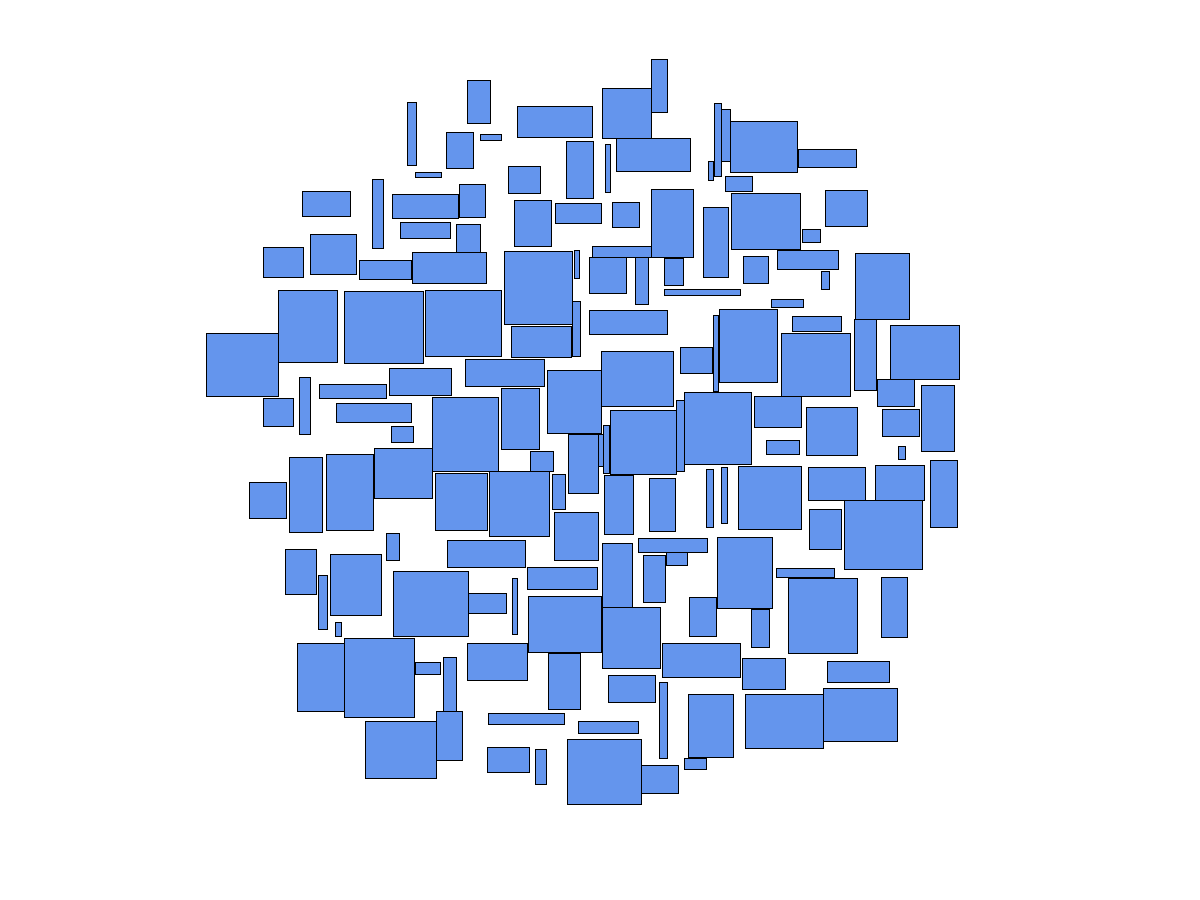
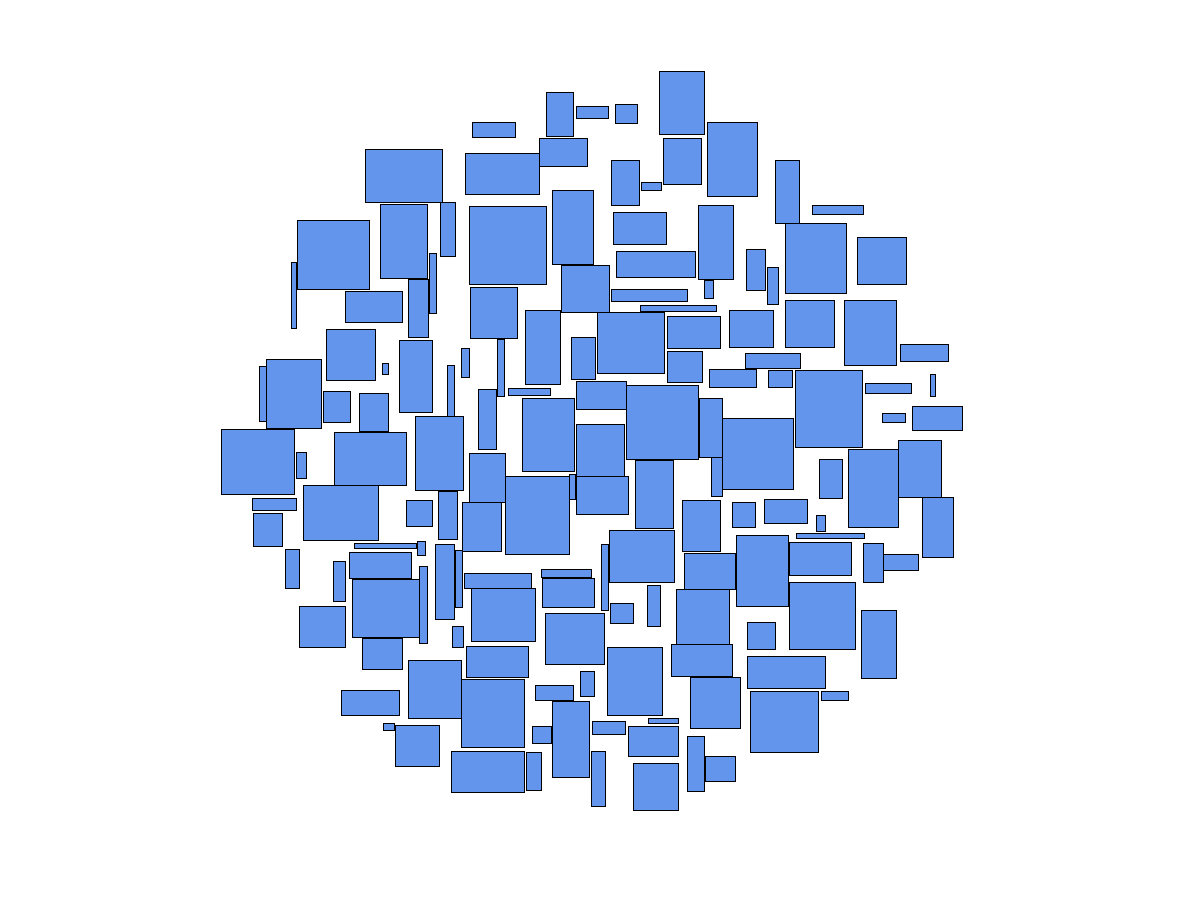
3 part of homework + fixes

Changed region(s): [[0.1542, 0.0622, 0.8017, 0.9022]]

diff --git a/cs/TagsCloudVisualization/Tests/CircularCloudLayouter_should.cs b/cs/TagsCloudVisualization/Tests/CircularCloudLayouter_should.cs
@@ -11,20 +11,42 @@ namespace TagsCloudVisualization.Tests
         private CircularCloudLayouter layouter = null!;
         private Size[] rectangleSizes = Array.Empty<Size>();
         private Point center;
+        private int maxDistanceToCenter;
+        private string imagesDirectory = "";
 
         [SetUp]
         public void SetUp()
         {
-            center = new Point(0, 0);
+            center = new Point(650, 450);
             layouter = new CircularCloudLayouter(center);
             rectangleSizes = new[]
             {
-                new Size(10, 10),
-                new Size(20, 20),
-                new Size(30, 10),
-                new Size(15, 25),
-                new Size(10, 10)
+                new Size(70, 100),
+                new Size(60, 60),
+                new Size(90, 30),
+                new Size(75, 115),
+                new Size(100, 100)
             };
+            maxDistanceToCenter = 120;
+            var projectDirectory = Directory.GetParent(Environment.CurrentDirectory)?.Parent?.Parent?.FullName
+                    ?? throw new InvalidOperationException("Не удалось определить директорию проекта.");
+            imagesDirectory = Path.Combine(projectDirectory, "Images");
+            if (!Directory.Exists(imagesDirectory))
+            {
+                Directory.CreateDirectory(imagesDirectory);
+            }
+        }
+
+        [TearDown]
+        public void TearDown()
+        {
+            if (TestContext.CurrentContext.Result.Outcome.Status == NUnit.Framework.Interfaces.TestStatus.Failed)
+            {
+                var testName = TestContext.CurrentContext.Test.Name;
+                var filePath = Path.Combine(imagesDirectory, $"{testName}_failed.png");
+                layouter.SaveVisualization(filePath);
+                Console.WriteLine($"Tag cloud visualization saved to file {filePath}");
+            }
         }
 
         [Test]
@@ -67,7 +89,7 @@ namespace TagsCloudVisualization.Tests
         public void PutNextRectangle_ShouldPlaceRectangleInCenter_WhenFirstRectangle()
         {
             var rectangleSize = new Size(10, 10);
-            var expectedLocation = new Point(-rectangleSize.Width / 2, -rectangleSize.Height / 2);
+            var expectedLocation = new Point(center.X - rectangleSize.Width / 2, center.Y - rectangleSize.Height / 2);
             var rectangle = layouter.PutNextRectangle(rectangleSize);
             
             rectangle.Location.Should().BeEquivalentTo(expectedLocation);
@@ -121,9 +143,23 @@ namespace TagsCloudVisualization.Tests
             {
                 var distanceToCenter = Math.Sqrt(Math.Pow(rectangle.X + rectangle.Width / 2 - center.X, 2) +
                                                   Math.Pow(rectangle.Y + rectangle.Height / 2 - center.Y, 2));
-                distanceToCenter.Should().BeLessThan(20);
+                distanceToCenter.Should().BeLessThan(maxDistanceToCenter);
             }
         }
+
+        /*
+        [Test]
+        public void Test_ShouldBeFailed_AnyWay()
+        {
+            foreach (var size in rectangleSizes)
+            {
+                layouter.PutNextRectangle(size);
+            }
+            
+            var a = 0;
+            a.Should().Be(5);
+        }
+        */
 
         private void VerifyRectanglesDontIntersect(List<Rectangle> rectangles)
         {

diff --git a/cs/TagsCloudVisualization/RandomVisualisation.cs b/cs/TagsCloudVisualization/RandomVisualisation.cs
@@ -10,7 +10,7 @@ namespace TagsCloudVisualization
             var projectDirectory = Directory.GetParent(Environment.CurrentDirectory)?.Parent?.Parent?.FullName
                     ?? throw new InvalidOperationException("Не удалось определить директорию проекта.");
             var imagesDirectory = Path.Combine(projectDirectory, "Images");
-            Console.WriteLine(imagesDirectory);
+
             if (!Directory.Exists(imagesDirectory))
             {
                 Directory.CreateDirectory(imagesDirectory);
